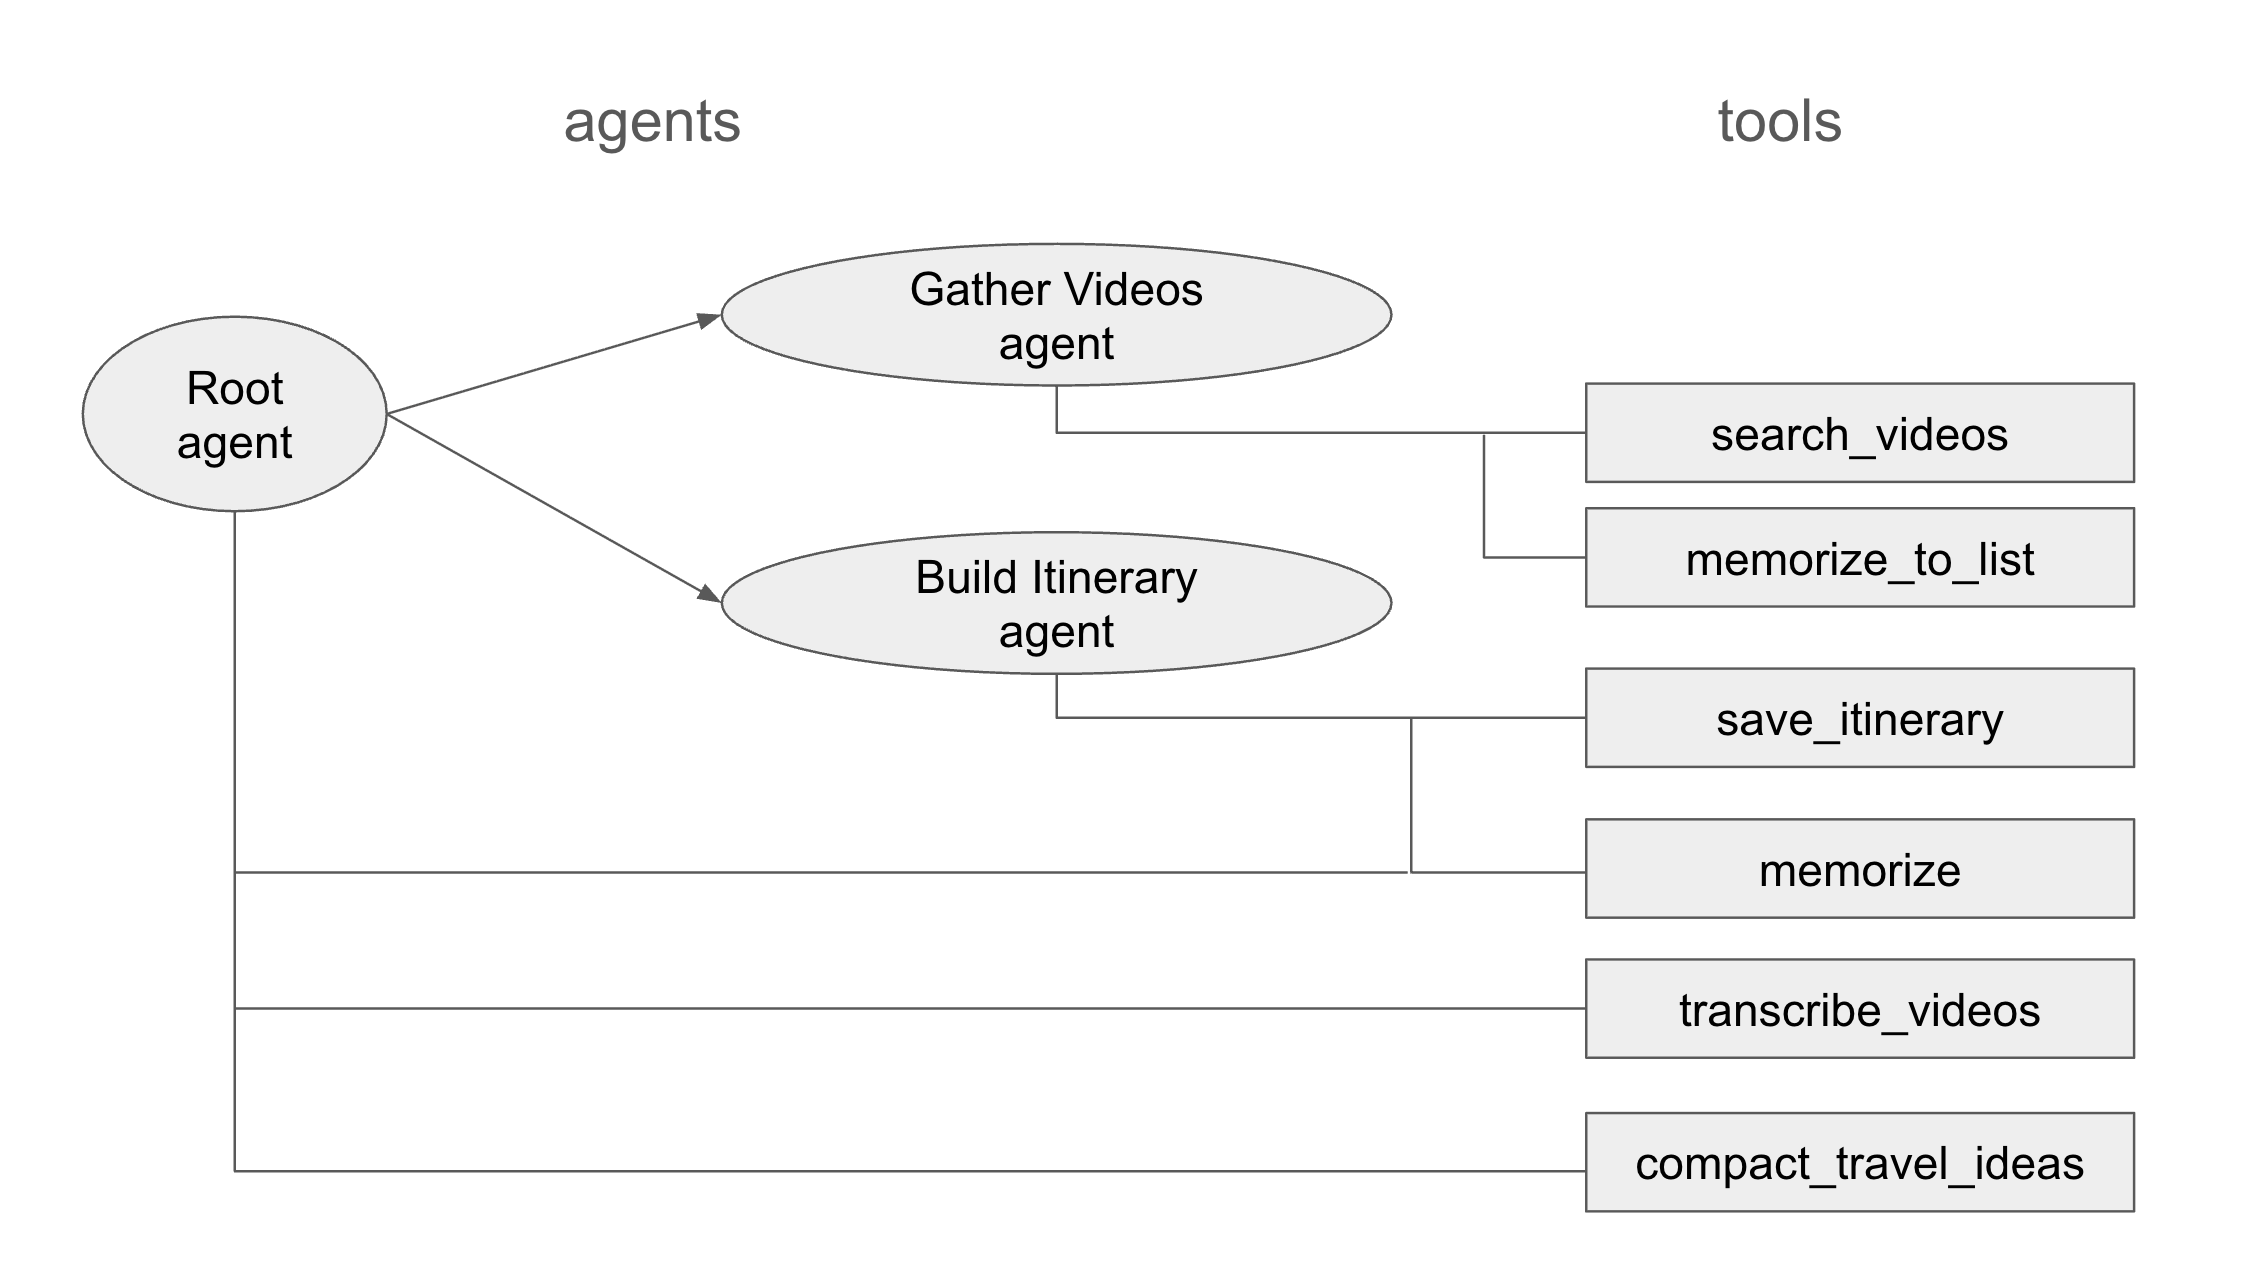
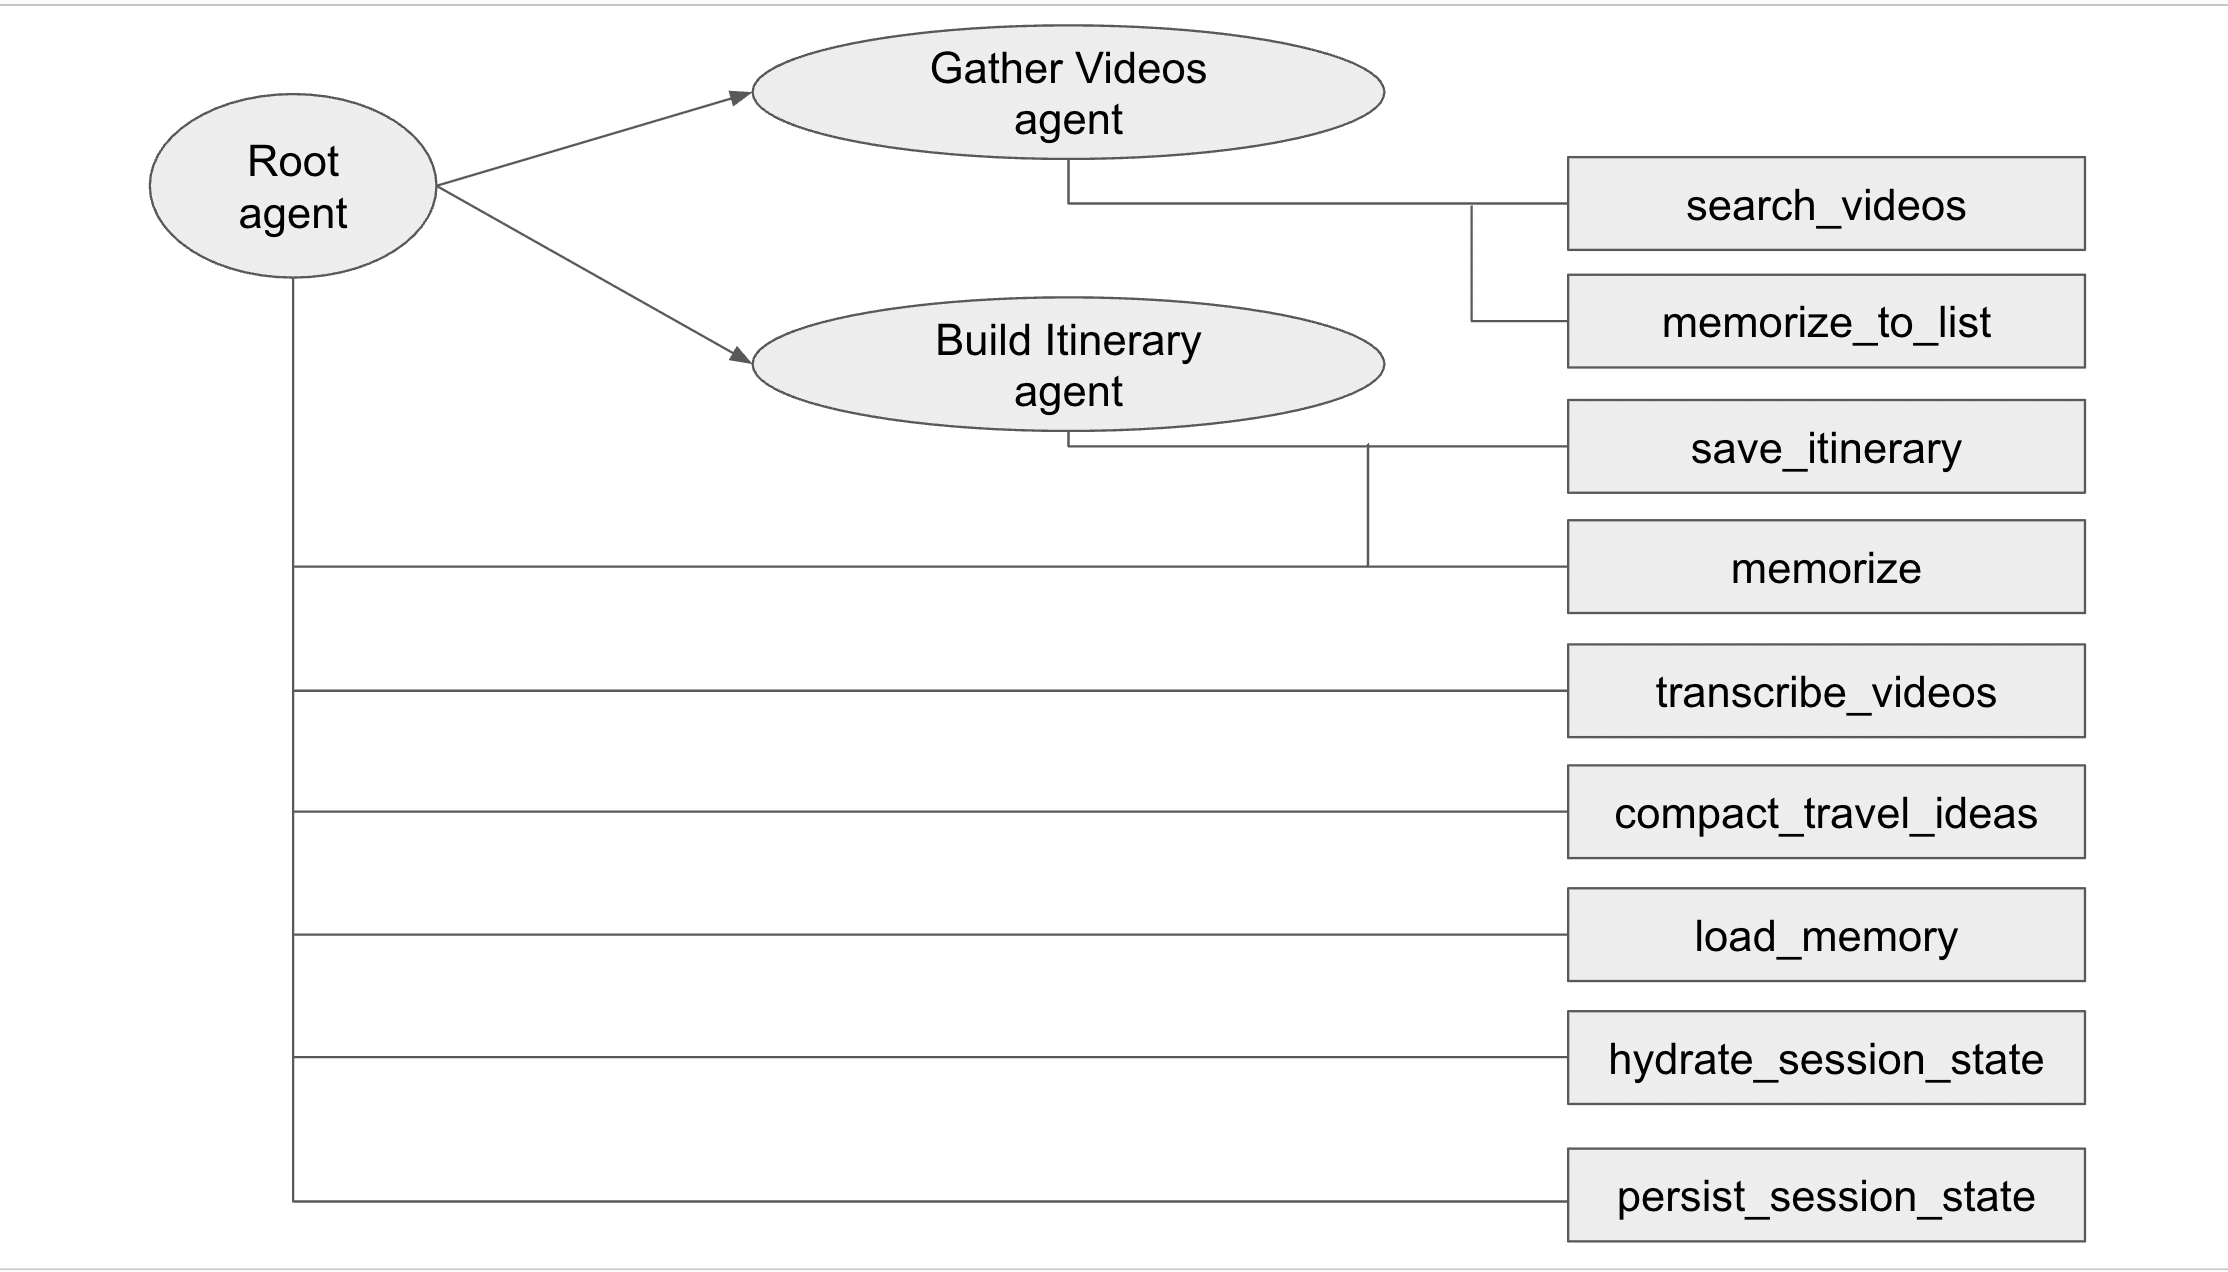
added persistent memory

diff --git a/trip_planner/callbacks.py b/trip_planner/callbacks.py
@@ -1,0 +1,76 @@
+# Copyright 2025 Google LLC
+# Copyright 2025 Grace Liu
+#
+# Licensed under the Apache License, Version 2.0 (the "License");
+# you may not use this file except in compliance with the License.
+# You may obtain a copy of the License at
+#
+#     http://www.apache.org/licenses/LICENSE-2.0
+#
+# Unless required by applicable law or agreed to in writing, software
+# distributed under the License is distributed on an "AS IS" BASIS,
+# WITHOUT WARRANTIES OR CONDITIONS OF ANY KIND, either express or implied.
+# See the License for the specific language governing permissions and
+# limitations under the License.
+from google.adk.agents.callback_context import CallbackContext
+from trip_planner.state_manager import state_manager
+from trip_planner.tools.memory import _load_precreated_scenario
+import logging
+
+logger = logging.getLogger(__name__)
+
+# --- PRE-HOOK (Hydrate) ---
+async def hydrate_session_state(callback_context: CallbackContext):
+    """
+    PRE-HOOK: Runs BEFORE the agent sees the prompt.
+    """
+    # Update all references inside the function:
+    user_id = "default_user"
+    
+    if not callback_context.state.get("destination"):
+        logger.debug(f"\n[System] 💧 Looking for user state to hydrate...")
+        saved_state = state_manager.get_user_state(user_id)
+        
+        if saved_state and saved_state.get("destination"):
+            logger.debug(f"\n[System] 💧 Hydrating user state...")
+            callback_context.state.update(saved_state)
+            callback_context.state._value["_just_restored"] = True
+
+# --- POST-HOOK (Persist) ---
+async def persist_session_state(callback_context: CallbackContext):
+    """
+    POST-HOOK: Runs AFTER every turn.
+    Saves the state so we can restore it later.
+    """
+    user_id = "default_user"
+    
+    # 1. Consume the flash flag if present
+    # Access ._value to use the standard dictionary .pop() method
+    if callback_context.state.get("_just_restored"):
+        callback_context.state._value.pop("_just_restored", None)
+
+    # 2. Access internal ._value to get the raw dictionary
+    # This avoids the KeyError: 0 crash in the ADK State wrapper
+    state_as_dict = callback_context.state._value.copy()
+
+    # 3. Save the dictionary
+    state_manager.save_user_state(user_id, state_as_dict)
+    
+    # 4. Save History
+
+    await callback_context._invocation_context.memory_service.add_session_to_memory(
+        callback_context._invocation_context.session)
+    
+    logger.debug(f"  [Memory] 💾 Snapshot saved for user '{user_id}'")
+
+
+async def root_agent_pre_hook(callback_context: CallbackContext):
+    """
+    Master Pre-Hook.
+    """
+    try:
+        _load_precreated_scenario(callback_context) 
+    except Exception:
+        pass
+
+    await hydrate_session_state(callback_context)

diff --git a/trip_planner/prompt.py b/trip_planner/prompt.py
@@ -16,22 +16,37 @@
 """Defines the prompts in the trip planner ai agent."""
 
 ROOT_AGENT_INSTR = """
-- You are a trip planner agent.
-- You help users to plan the itinerary for their trip destination using ideas transcribed from youtube videos on the trip destination.
-- Please use only the agents and tools to fulfill all user requests.
+You are a trip planning orchestrator. You manage a sequential pipeline of data to build a trip itinerary.
 
-# Routing Logic
-1. If a travel destination is not present:
-    1. Ask the user for a trip destination.
-    2. Once the user provides it, IMMEDIATELY use the `memorize` tool to save it to the `destination` variable.
-2. **Gather** If a list of trip ideas videos is not present, transfer to the `gather videos agent`.
-3. ** Ingest** If videos exist BUT list of ideas raw text AND list of ideas refined text are not present -> **Call the `transcribe_videos` tool.**
-3. **Refine:** If list of ideas raw text is present -> **Call `compact_travel_ideas`.**
-5. **Plan** If the itinerary is not present, transfer to the `build itinerary agent`.
-6. Once the itnerary is present, present it to the user in user-friendly, user-readable format and inform the user the trip planning is completed.
+# Routing Logic (State Machine)
+
+1. **Resume Notification:** Check if the variable `_just_restored` is True.
+   - **IF TRUE:** Say: "Welcome back! I've restored your planning session for **{destination}**."
+   - **Action:** Immediately evaluate the next steps below to proceed (do not wait for user input).
+
+2. **Memory Retrieval:** If the user asks about past conversations, preferences, **call the `load_memory` tool.**
+
+3. **Destination:** If **Trip destination** is empty or "None":
+   - Ask the user for a destination.
+   - Once provided, IMMEDIATELY use the `memorize` tool to save it to the key 'destination'.
+
+4. **Gather:** If **Trip ideas videos** list is empty or "None":
+   - Transfer to `gather_videos_agent`.
+
+5. **Ingest:** If videos exist but **Trip ideas raw text** AND **Trip ideas refined text** are both empty:
+   - Call the `transcribe_videos` tool.
+
+6. **Refine:** If **Trip ideas raw text** is present (not empty):
+   - Call the `compact_travel_ideas` tool.
+   - (This tool will summarize the raw text and then clear it to save memory).
+
+7. **Plan:** If **Trip ideas refined text** is present:
+   - Transfer to `build_itinerary_agent`.
+
+8. **Completion:** If the itinerary is present:
+   - Present it to the user in a readable format.
 
 # Context
-
 Trip destination: {destination}
 Trip ideas videos: {ideas_videos}
 Trip ideas raw text: {ideas_raw_text}

diff --git a/trip_planner/state_manager.py b/trip_planner/state_manager.py
@@ -1,0 +1,34 @@
+# Copyright 2025 Google LLC
+# Copyright 2025 Grace Liu
+#
+# Licensed under the Apache License, Version 2.0 (the "License");
+# you may not use this file except in compliance with the License.
+# You may obtain a copy of the License at
+#
+#     http://www.apache.org/licenses/LICENSE-2.0
+#
+# Unless required by applicable law or agreed to in writing, software
+# distributed under the License is distributed on an "AS IS" BASIS,
+# WITHOUT WARRANTIES OR CONDITIONS OF ANY KIND, either express or implied.
+# See the License for the specific language governing permissions and
+# limitations under the License.
+class StateManager:
+    """
+    A simple in-memory store to hold the latest state for each user.
+    Used solely for the 'Abandon & Resume' hydration feature.
+    """
+    def __init__(self):
+        # Format: { "user_id": { "destination": "Tokyo", ... } }
+        self._user_latest_state = {}
+
+    def save_user_state(self, user_id: str, state: dict):
+        """Snapshots the current state dictionary for a user."""
+        if user_id:
+            self._user_latest_state[user_id] = state.copy()
+
+    def get_user_state(self, user_id: str):
+        """Retrieves the last known state for a user."""
+        return self._user_latest_state.get(user_id, {})
+
+# Global Singleton
+state_manager = StateManager()

diff --git a/trip_planner/agent.py b/trip_planner/agent.py
@@ -14,6 +14,7 @@
 # limitations under the License.
 
 from google.adk.agents import Agent
+from google.adk.tools import load_memory
 
 from trip_planner import prompt
 
@@ -21,9 +22,10 @@ from trip_planner.sub_agents.gather_videos.agent import gather_videos_agent
 from trip_planner.sub_agents.build_itinerary.agent import build_itinerary_agent
 
 from trip_planner.tools.memory import memorize
-from trip_planner.tools.memory import _load_precreated_scenario
 from trip_planner.tools.transcriber import transcribe_videos
 from trip_planner.tools.compactor import compact_travel_ideas
+from trip_planner.callbacks import root_agent_pre_hook
+from trip_planner.callbacks import persist_session_state
 
 
 from trip_planner.logger_config import setup_logging
@@ -38,6 +40,7 @@ root_agent = Agent(
         gather_videos_agent,
         build_itinerary_agent
     ],
-    tools=[memorize, transcribe_videos, compact_travel_ideas],
-    before_agent_callback=_load_precreated_scenario
+    tools=[memorize, transcribe_videos, compact_travel_ideas, load_memory],
+    before_agent_callback=root_agent_pre_hook,
+    after_agent_callback=persist_session_state,
 )

diff --git a/trip_planner/sub_agents/build_itinerary/agent.py b/trip_planner/sub_agents/build_itinerary/agent.py
@@ -21,7 +21,7 @@ from trip_planner.tools.itinerary import save_itinerary # Import new tool
 from trip_planner.tools.memory import memorize
 
 build_itinerary_agent = Agent(
-    model="gemini-2.5-flash",
+    model="gemini-2.5-pro",
     name="build_itinerary_agent", # Corrected name
     description="Builds an itinerary by discussing with the user, then saves it.",
     instruction=prompt.BUILD_ITINERARY_INSTR, 

diff --git a/README.md b/README.md
@@ -51,22 +51,29 @@ Acts as the state machine. It manages the global context (`destination`, `videos
 
 ### **Technical Features & Stack**
 
+### Technical Features & Stack
+
 * **Multi-agent System:** Using Google Agent Development Kit (ADK) for state management and routing in a hierarchical, sequential architecture.
 * **Model:** Gemini 2.5 Flash for high-speed, low-latency reasoning.
 * **Context Engineering (Pipeline Pattern):** Implemented a "Map-Reduce" style ingestion pipeline. Instead of flooding the Planner Agent with raw, noisy transcripts, the system uses an intermediate LLM call to "compact" video data into structured Points of Interest (POIs) before planning begins.
-* **State Management:**
-    * **Session-Scoped Memory:** Utilized `tool_context.state` to pass complex objects (video lists, full itinerary JSON) between agents.
-    * **Persistence:** Custom `memorize` tools allow agents to "commit" facts to long-term memory.
+* **State Management & Persistence:**
+    * **Session Hydration:** Implemented a custom `StateManager` hooked into the agent's lifecycle callbacks (`before_agent` / `after_agent`). This snapshots the user's state after every turn and automatically "hydrates" (restores) it when a new session starts, enabling seamless "Abandon & Resume" workflows.
+    * **Memory Service:** Integrated the ADK's `InMemoryMemoryService` to index full conversation history. This allows the Root Agent to use the `load_memory` tool to recall specific user preferences or details from past sessions that are no longer in the active context window.
 * **Tooling Strategy:**
     * **Robustness:** Implemented "Circuit Breaker" logic for YouTube scraping. If the cloud IP is rate-limited (429 error), the system gracefully degrades to cached/mock data to ensure the demo never crashes.
     * **Type Safety:** Tools utilize Pydantic models to enforce strict schema compliance.
 * **Observability:** Logging with configurable log level and tracing using Google Cloud tracing.
-<img src="https://github.com/graceliu/vid2trip/blob/main/vid2trip-logging.png?raw=true" alt="Vid2Trip Logging" width="800"/>
-<img src="https://github.com/graceliu/vid2trip/blob/main/vid2trip-cloud-trace.png?raw=true" alt="Vid2Trip Cloud Trace" width="800"/>
-* **Agent Evaluation & Testing:** Implemented a robust regression testing suite using `pytest` and the ADK's `AgentEvaluator`. We defined "Happy Path" scenarios with custom semantic thresholds (via `test_config.json`) to ensure the agent reliably produces valid JSON itineraries without regression.
-<img src="https://github.com/graceliu/vid2trip/blob/main/vid2trip-pytest-evaluation.png?raw=true" alt="Vid2Trip Pytest Evaluation" width="800"/>
+
+![Vid2Trip Logging](https://github.com/graceliu/vid2trip/blob/main/vid2trip-logging.png?raw=true)
+![Vid2Trip Cloud Trace](https://github.com/graceliu/vid2trip/blob/main/vid2trip-cloud-trace.png?raw=true)
+
+* **Agent Evaluation & Testing:** Implemented a robust regression testing suite using `pytest` and the ADK's `AgentEvaluator`. We defined "Golden Path" scenarios with custom semantic thresholds (via `test_config.json`) to ensure the agent reliably produces valid JSON itineraries without regression.
+
+![Vid2Trip Pytest Evaluation](https://github.com/graceliu/vid2trip/blob/main/vid2trip-pytest-evaluation.png?raw=true)
+
 * **Deployment:** Fully deployed via `deploy.py` script using a `uv` managed environment for reproducible builds.
-<img src="https://github.com/graceliu/vid2trip/blob/main/vid2trip-deployment.png?raw=true" alt="Vid2Trip Deployment" width="800"/>
+
+![Vid2Trip Deployment](https://github.com/graceliu/vid2trip/blob/main/vid2trip-deployment.png?raw=true)
 
 ---
 
